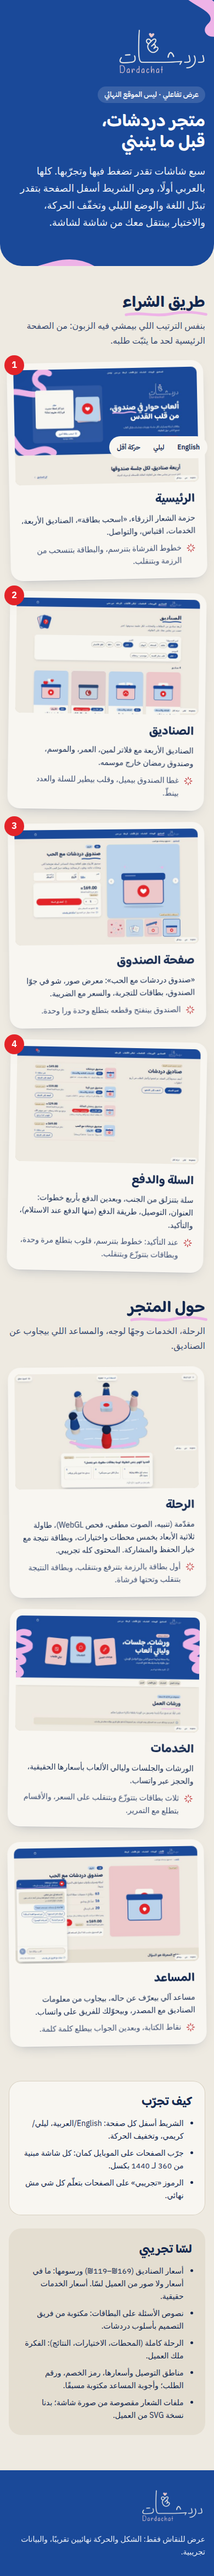
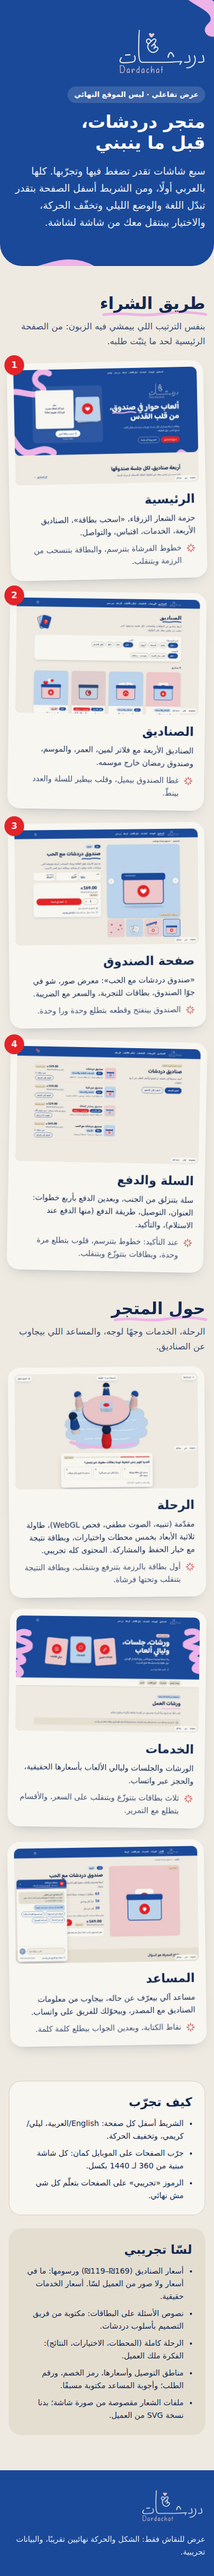
design(client-demo): snapshot (toolbar-free screenshot rerun, README note)
Claude-Session: https://claude.ai/code/session_013cTZJwmDwHhXFGaQ6ni8Sx

diff --git a/design/client-demo/README.md b/design/client-demo/README.md
@@ -9,7 +9,7 @@ A clickable preview of the Dardachat shop. It is front end only, with sample dat
 3. Before the meeting, open every page once with internet on. Fonts come from Google Fonts. Offline, everything still works, but the system font stands in for Baloo Bhaijaan / IBM Plex.
 4. If you present from a phone, AirDrop/WhatsApp the PNGs from `screenshots/` instead. Pages opened from a file on a phone are unreliable. Alternatively, run `python -m http.server` in this folder and open `http://<laptop-ip>:8000` from the phone on the same Wi-Fi.
 
-**Controls (bottom of every page):** English/العربية, Night/Cream, Less motion. The choice carries over from page to page. The motion setting also follows the OS “reduce motion” preference automatically.
+**Controls (bottom of every page):** a small floating toolbar with English/العربية, Night/Cream and Less motion. The choice carries over from page to page. The motion setting also follows the OS “reduce motion” preference automatically. This toolbar is a demo control, not part of the shop design. It stays in the live demo because it is how you switch language, but it is hidden in all screenshots. To hide it live as well, add `<html data-no-protobar>` to a page.
 
 ## Click-through script (about 10 minutes)
 
